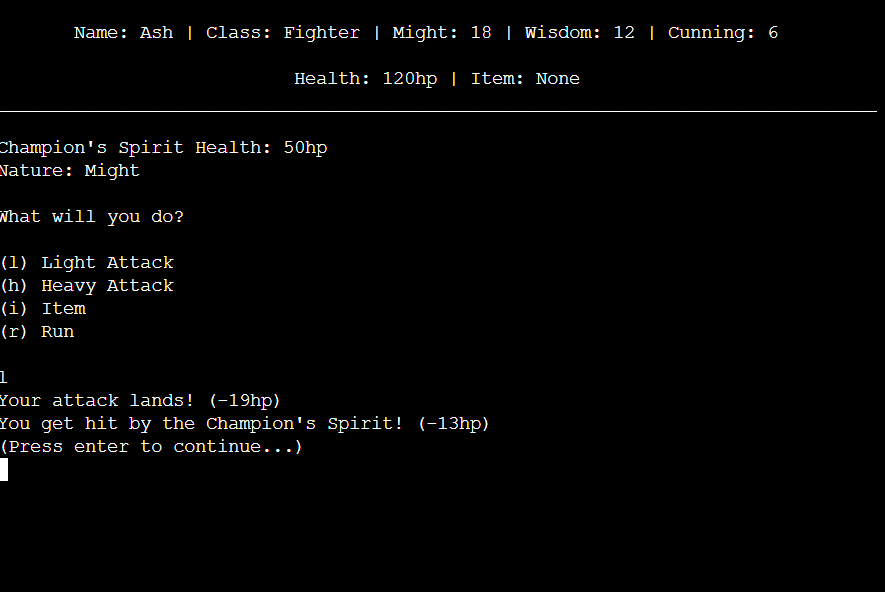
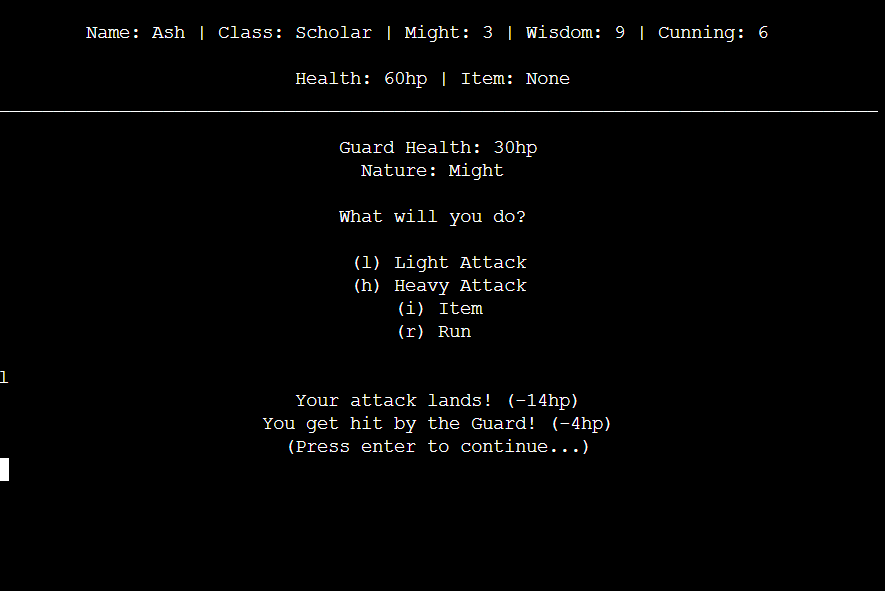
Add missing player prompt message to combat

diff --git a/mechanics.py b/mechanics.py
@@ -27,19 +27,19 @@ def defeat(
     if player_character.health <= 0:
         clear_terminal_in_game(player_character, player_name)
         center_print("You have been defeated!\n")
-        center_input("Press any button to return to main menu...")
+        center_input("Press enter to return to main menu...")
         homescreen_callback()
     elif current_enemy.health <= 0:
         # Handles item drop odds upon defeating an enemy
         if random_item_chance >= drop_odds:  # 11 = 100% Chance
-            input(f'{current_enemy.name} has been defeated!')
+            center_input(f'{current_enemy.name} has been defeated!')
         else:
-            print(f'{current_enemy.name} has been defeated!')
-            print(
+            center_print(f'{current_enemy.name} has been defeated!')
+            center_print(
                 f"{current_enemy.name} has dropped an item: {dropped_item}\n"
             )
-            print("Do you want to pick it up? (Replaces current item)")
-            print("Yes(y) / No(n)")
+            center_print("Do you want to pick it up? (Replaces current item)")
+            center_print("Yes(y) / No(n)")
 
             while True:
                 choice = input().strip()
@@ -47,10 +47,13 @@ def defeat(
                     player_character.item = dropped_item
                     stat_reset(player_character, base_stats)
                     item_buff(player_character)
+                    center_print(f"You pick up the {dropped_item}")
+                    center_input("(Press enter to continue...)")
                     clear_terminal_in_game(player_character, player_name)
                     break  # Exit loop after picking up
                 elif choice == "n":
-                    print(f"You left the {dropped_item} behind.")
+                    center_print(f"You left the {dropped_item} behind.")
+                    center_input("(Press enter to continue...)")
                     clear_terminal_in_game(player_character, player_name)
                     break  # Exit loop after leaving
                 else:
@@ -174,7 +177,6 @@ def combat(
         center_print(
             f"You slip away while the {current_enemy.name} is blinded...")
         center_input("(Press enter to continue...)")
-
 
 
 def attack(current_enemy, player_character, accuracy, damage_mult):

diff --git a/TESTING.md b/TESTING.md
@@ -303,7 +303,7 @@ Defensive programming was manually tested with the below user acceptance testing
 | | Whenever the player is presented with an item choice, outside of combat, it is expected to ignore the item, and the player's current item will remain the same if the player enters "n" | Tested the feature by entering "n" on each of the item choices outside of combat | The feature behaved as expected, and ignored the item, while keeping the current held item| Test concluded and passed | ![screenshot](documentation/features/feature-item-choice-n.png) | ![screenshot](documentation/features/feature-item-choice-n-inventory.png) |
 | | Whenever the player is presented with an item choice, outside of combat, it is expected to display invalid input message when any value other than "y" or  "n" is entered | Tested the feature by entering multiple invalid values on each item choice| The feature behaved as expected, and displayed error message | Test concluded and passed | ![screenshot](documentation/features/feature-item-choice.png) | ![screenshot](documentation/features/feature-item-choice-invalid.png) |
 | Cambat | | | | | | | |
-| | During combat, entering "l" is expected to perform a light attack, showing the damage output or "attack missed" message for the enemy & the player | Tested the feature by entering "l" during combat | The feature behaved as expected, displayed dmage output or "attack missed" message | Test concluded and passed | ![screenshot](documentation/features/feature-combat-boss.png) | ![screenshot](documentation/features/feature-combat-light-attack.png) | ![screenshot](documentation/features/feature-combat-missed-attack-enemy.png)  |
+| | During combat, entering "l" is expected to perform a light attack, showing the damage output or "attack missed" message for the enemy & the player | Tested the feature by entering "l" during combat | The feature behaved as expected, displayed dmage output or "attack missed" message | Test concluded and passed | ![screenshot](documentation/features/feature-combat.png) | ![screenshot](documentation/features/feature-combat-light-attack.png) | ![screenshot](documentation/features/feature-combat-missed-attack-enemy.png)  |
 | | Whenever the player is presented with an item choice, outside of combat, it is expected to ignore the item, and the player's current item will remain the same if the player enters "n" | Tested the feature by entering "n" on each of the item choices outside of combat | The feature behaved as expected, and ignored the item, while keeping the current held item| Test concluded and passed | ![screenshot](documentation/features/feature-item-choice-n.png) | ![screenshot](documentation/features/feature-item-choice-n-inventory.png) |
 | | Whenever the player is presented with an item choice, outside of combat, it is expected to display invalid input message when any value other than "y" or  "n" is entered | Tested the feature by entering multiple invalid values on each item choice| The feature behaved as expected, and displayed error message | Test concluded and passed | ![screenshot](documentation/features/feature-item-choice.png) | ![screenshot](documentation/features/feature-item-choice-invalid.png) |
 
